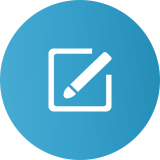
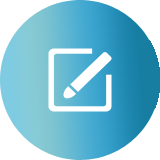
会议通首页图标替换

diff --git a/src/css/meet.css b/src/css/meet.css
@@ -350,10 +350,12 @@ h3{
 	background-color: #f00;
 }
 .meet-index-menu .center{
-	width: 202px;
-	height: 202px;
-	left:274px;
-	top:266px;
+	/*width: 202px;
+	height: 202px;*/
+	width: 116px;
+	height: 116px;
+	left:317px;
+	top:309px;
 	background: url(../../images/meet-index-center.png) no-repeat center center;
 	background-size: 100%;
 }
